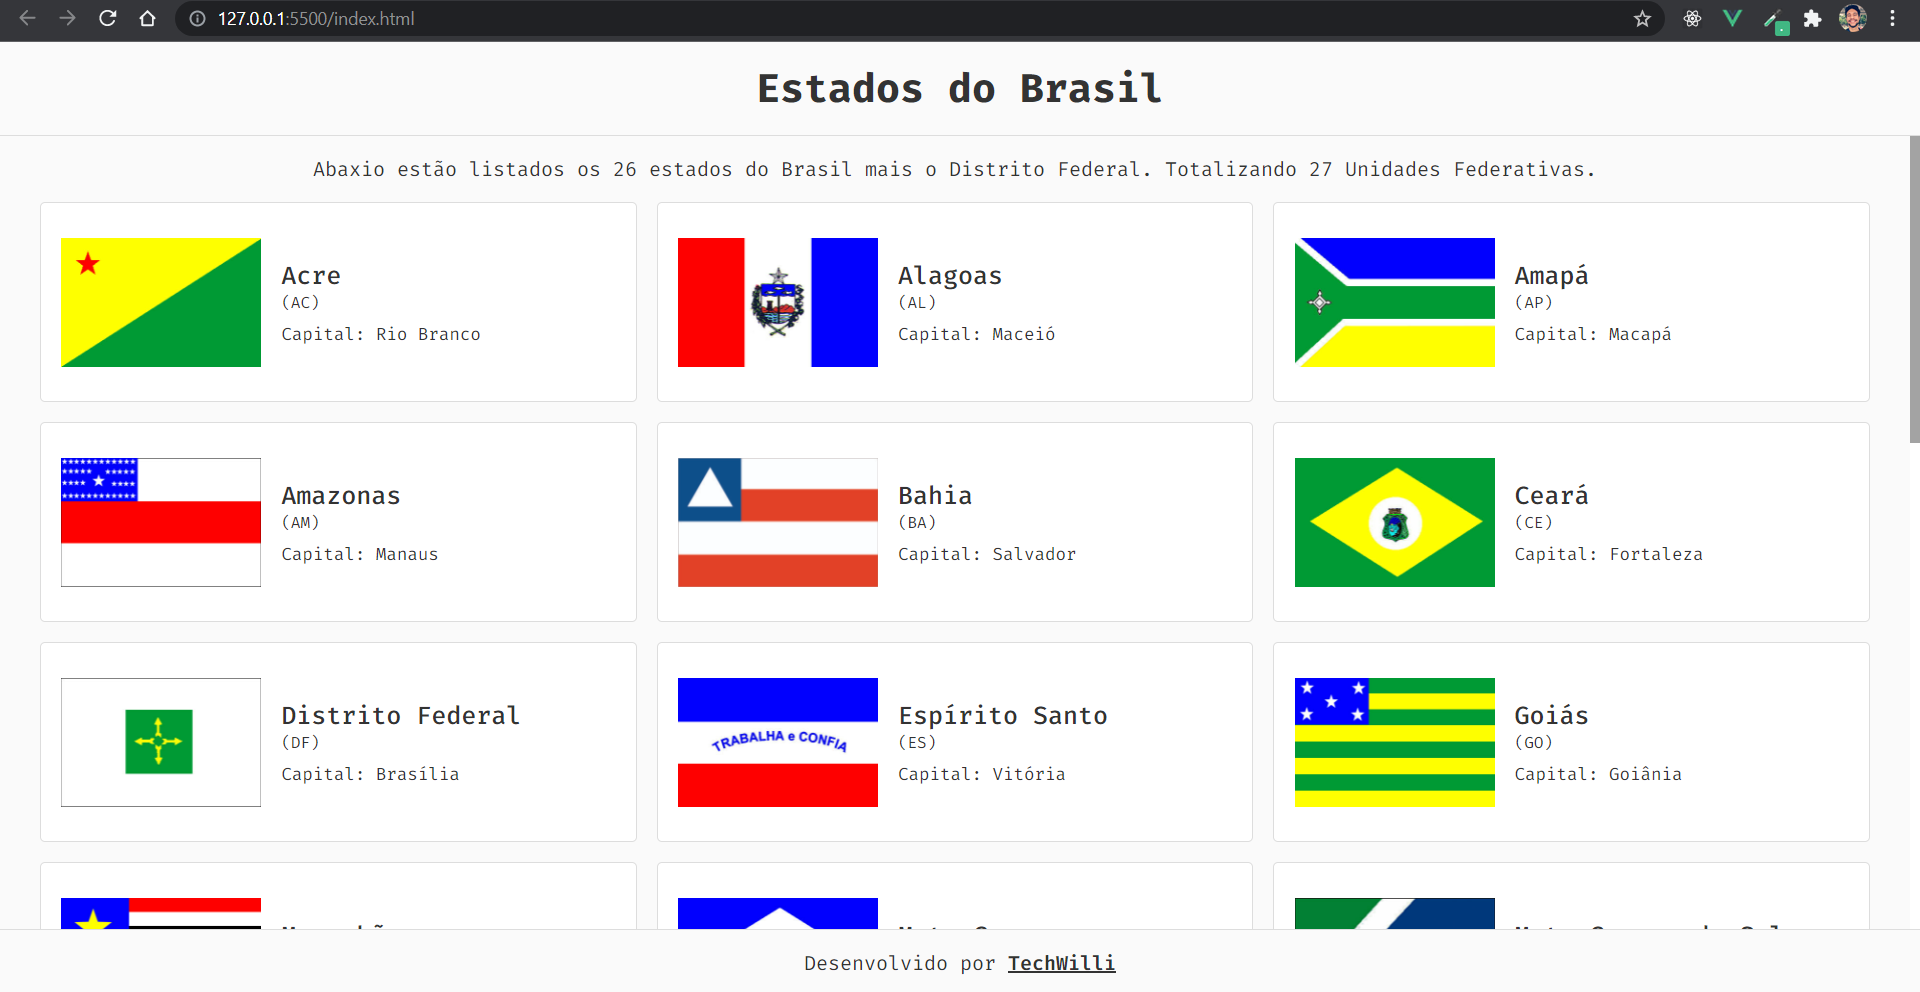
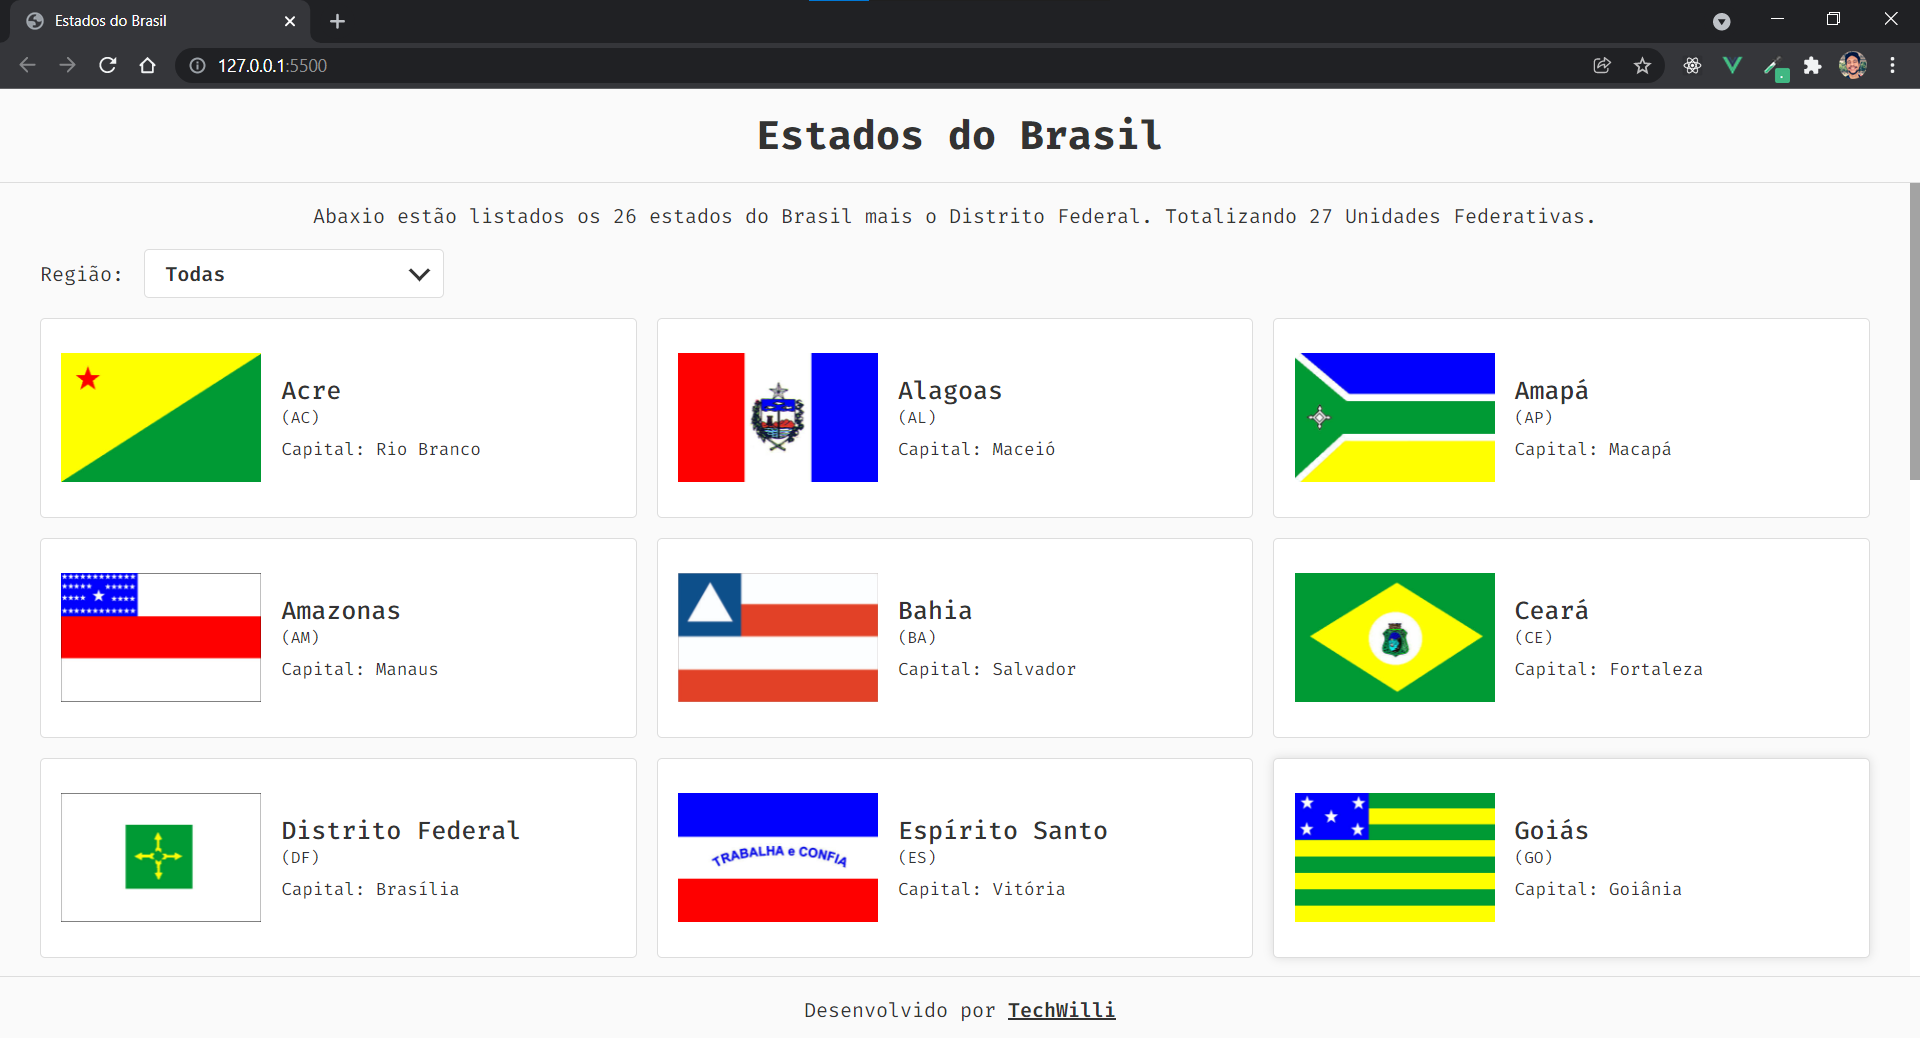
Adiciona filtro de estados através de lista de seleção por região

diff --git a/index.html b/index.html
@@ -17,24 +17,36 @@
       <h1>Estados do Brasil</h1>
     </header>
     <main>
-      <p class="explanation">Abaxio estão listados os 26 estados do Brasil mais o Distrito Federal. Totalizando {{brazilianStates.length}} Unidades Federativas.</p>
+      <p class="explanation">Abaxio estão listados os 26 estados do Brasil mais o Distrito Federal. Totalizando {{ amountOfStates }} Unidades Federativas.</p>
+      <div class="filter-container">
+        <span>Região:</span>
+        <div class="select-wrapper" v-on:click="openPicklist">
+          <span class="selected-value" v-bind:data-value="currentFilterSelection.value">{{ currentFilterSelection.label }}</span>
+          <div class="arrow-wrapper">
+            <div class="arrow-down"></div>
+          </div>
+          <ul class="selection-list hide-list">
+            <li class="selection-option" v-on:click="handleRegionFilter" v-for="({ value, label }, index) of regionsPicklist" v-bind:key="'select-' + index" v-bind:data-value="value" v-bind:data-label="label">{{ label }}</li>
+          </ul>
+        </div>
+      </div>
       <ul class="states-list">
-        <li v-for="({ nome, sigla, capital, imageFlagName }, index) of brazilianStates" v-bind:key="'state -' + index">
+        <li v-for="({ nome, sigla, capital, imageFlagName }, index) of filteredStates" v-bind:key="'state-' + index">
           <div class="card">
             <div class="image-flag-container">
               <img v-bind:src="`./images/bandeiras-estados-do-brasil/${imageFlagName}`" v-bind:alt="`bandeira do ${nome}`">
             </div>
             <div>
-              <span class="state-name">{{nome}}</span>
-              <p class="state-sigla">({{sigla}})</p>
-              <p class="state-capital">Capital: {{capital}}</p>
+              <span class="state-name">{{ nome }}</span>
+              <p class="state-sigla">({{ sigla }})</p>
+              <p class="state-capital">Capital: {{ capital }}</p>
             </div>
           </div>
         </li>
       </ul>
     </main>
     <footer>
-      <p>Desenvolvido por <a v-bind:href="developer.github" target="_blank">{{developer.name}}</a></p>
+      <p>Desenvolvido por <a v-bind:href="developer.github" target="_blank">{{ developer.name }}</a></p>
     </footer>
   </div>
 
@@ -43,42 +55,82 @@
       el: "#app",
       data: {
         brazilianStates: [
-          { nome: 'Acre', sigla: 'AC', capital: 'Rio Branco', imageFlagName: 'Acre.jpg' },
-          { nome: 'Alagoas', sigla: 'AL', capital: 'Maceió', imageFlagName: 'Alagoas.jpg' },
-          { nome: 'Amapá', sigla: 'AP', capital: 'Macapá', imageFlagName: 'Amapa.jpg' },
-          { nome: 'Amazonas', sigla: 'AM', capital: 'Manaus', imageFlagName: 'Amazonas.jpg' },
-          { nome: 'Bahia', sigla: 'BA', capital: 'Salvador', imageFlagName: 'Bahia.jpg' },
-          { nome: 'Ceará', sigla: 'CE', capital: 'Fortaleza', imageFlagName: 'Ceara.jpg' },
-          { nome: 'Distrito Federal', sigla: 'DF', capital: 'Brasília', imageFlagName: 'Brasilia.jpg' },
-          { nome: 'Espírito Santo', sigla: 'ES', capital: 'Vitória', imageFlagName: 'Espiritosanto.jpg' },
-          { nome: 'Goiás', sigla: 'GO', capital: 'Goiânia', imageFlagName: 'Goias.jpg' },
-          { nome: 'Maranhão', sigla: 'MA', capital: 'São Luís', imageFlagName: 'Maranhao.jpg' },
-          { nome: 'Mato Grosso', sigla: 'MT', capital: 'Cuiabá', imageFlagName: 'Matogrosso.jpg' },
-          { nome: 'Mato Grosso do Sul', sigla: 'MS', capital: 'Campo Grande', imageFlagName: 'Matogrossodosul.jpg' },
-          { nome: 'Minas Gerais', sigla: 'MG', capital: 'Belo Horizonte', imageFlagName: 'Minasgerais.jpg' },
-          { nome: 'Pará', sigla: 'PA', capital: 'Belém', imageFlagName: 'Para.jpg' },
-          { nome: 'Paraíba', sigla: 'PB', capital: 'João Pessoa', imageFlagName: 'Paraiba.jpg' },
-          { nome: 'Paraná', sigla: 'PR', capital: 'Curitiba', imageFlagName: 'parana.jpg' },
-          { nome: 'Pernambuco', sigla: 'PE', capital: 'Recife', imageFlagName: 'Pernambuco.jpg' },
-          { nome: 'Piauí', sigla: 'PI', capital: 'Teresina', imageFlagName: 'Piaui.jpg' },
-          { nome: 'Rio de Janeiro', sigla: 'RJ', capital: 'Rio de Janeiro', imageFlagName: 'Riodejaneiro.jpg' },
-          { nome: 'Rio Grande do Norte', sigla: 'RN', capital: 'Natal', imageFlagName: 'Riograndedonorte.jpg' },
-          { nome: 'Rio Grande do Sul', sigla: 'RS', capital: 'Porto Alegre', imageFlagName: 'Riograndedosul.jpg' },
-          { nome: 'Rondônia', sigla: 'RO', capital: 'Porto Velho', imageFlagName: 'Rondonia.jpg' },
-          { nome: 'Roraima', sigla: 'RR', capital: 'Boa Vista', imageFlagName: 'Roraima.jpg' },
-          { nome: 'Santa Catarina', sigla: 'SC', capital: 'Florianópolis', imageFlagName: 'Santacatarina.jpg' },
-          { nome: 'São Paulo', sigla: 'SP', capital: 'São Paulo', imageFlagName: 'Saopaulo.jpg' },
-          { nome: 'Sergipe', sigla: 'SE', capital: 'Aracajú', imageFlagName: 'Sergipe.jpg' },
-          { nome: 'Tocantins', sigla: 'TO', capital: 'Palmas', imageFlagName: 'Tocantins.jpg' },
+          { nome: 'Acre', sigla: 'AC', capital: 'Rio Branco', regiao: 'norte', imageFlagName: 'Acre.jpg' },
+          { nome: 'Alagoas', sigla: 'AL', capital: 'Maceió', regiao: 'nordeste', imageFlagName: 'Alagoas.jpg' },
+          { nome: 'Amapá', sigla: 'AP', capital: 'Macapá', regiao: 'norte', imageFlagName: 'Amapa.jpg' },
+          { nome: 'Amazonas', sigla: 'AM', capital: 'Manaus', regiao: 'norte', imageFlagName: 'Amazonas.jpg' },
+          { nome: 'Bahia', sigla: 'BA', capital: 'Salvador', regiao: 'nordeste', imageFlagName: 'Bahia.jpg' },
+          { nome: 'Ceará', sigla: 'CE', capital: 'Fortaleza', regiao: 'nordeste', imageFlagName: 'Ceara.jpg' },
+          { nome: 'Distrito Federal', sigla: 'DF', capital: 'Brasília', regiao: 'centroOeste', imageFlagName: 'Brasilia.jpg' },
+          { nome: 'Espírito Santo', sigla: 'ES', capital: 'Vitória', regiao: 'sudeste', imageFlagName: 'Espiritosanto.jpg' },
+          { nome: 'Goiás', sigla: 'GO', capital: 'Goiânia', regiao: 'centroOeste', imageFlagName: 'Goias.jpg' },
+          { nome: 'Maranhão', sigla: 'MA', capital: 'São Luís', regiao: 'nordeste', imageFlagName: 'Maranhao.jpg' },
+          { nome: 'Mato Grosso', sigla: 'MT', capital: 'Cuiabá', regiao: 'centroOeste', imageFlagName: 'Matogrosso.jpg' },
+          { nome: 'Mato Grosso do Sul', sigla: 'MS', capital: 'Campo Grande', regiao: 'centroOeste', imageFlagName: 'Matogrossodosul.jpg' },
+          { nome: 'Minas Gerais', sigla: 'MG', capital: 'Belo Horizonte', regiao: 'sudeste', imageFlagName: 'Minasgerais.jpg' },
+          { nome: 'Pará', sigla: 'PA', capital: 'Belém', regiao: 'norte', imageFlagName: 'Para.jpg' },
+          { nome: 'Paraíba', sigla: 'PB', capital: 'João Pessoa', regiao: 'nordeste', imageFlagName: 'Paraiba.jpg' },
+          { nome: 'Paraná', sigla: 'PR', capital: 'Curitiba', regiao: 'sul', imageFlagName: 'parana.jpg' },
+          { nome: 'Pernambuco', sigla: 'PE', capital: 'Recife', regiao: 'nordeste', imageFlagName: 'Pernambuco.jpg' },
+          { nome: 'Piauí', sigla: 'PI', capital: 'Teresina', regiao: 'nordeste', imageFlagName: 'Piaui.jpg' },
+          { nome: 'Rio de Janeiro', sigla: 'RJ', capital: 'Rio de Janeiro', regiao: 'sudeste', imageFlagName: 'Riodejaneiro.jpg' },
+          { nome: 'Rio Grande do Norte', sigla: 'RN', capital: 'Natal', regiao: 'nordeste', imageFlagName: 'Riograndedonorte.jpg' },
+          { nome: 'Rio Grande do Sul', sigla: 'RS', capital: 'Porto Alegre', regiao: 'sul', imageFlagName: 'Riograndedosul.jpg' },
+          { nome: 'Rondônia', sigla: 'RO', capital: 'Porto Velho', regiao: 'norte', imageFlagName: 'Rondonia.jpg' },
+          { nome: 'Roraima', sigla: 'RR', capital: 'Boa Vista', regiao: 'norte', imageFlagName: 'Roraima.jpg' },
+          { nome: 'Santa Catarina', sigla: 'SC', capital: 'Florianópolis', regiao: 'sul', imageFlagName: 'Santacatarina.jpg' },
+          { nome: 'São Paulo', sigla: 'SP', capital: 'São Paulo', regiao: 'sudeste', imageFlagName: 'Saopaulo.jpg' },
+          { nome: 'Sergipe', sigla: 'SE', capital: 'Aracajú', regiao: 'nordeste', imageFlagName: 'Sergipe.jpg' },
+          { nome: 'Tocantins', sigla: 'TO', capital: 'Palmas', regiao: 'norte', imageFlagName: 'Tocantins.jpg' },
         ],
+        filteredStates: [],
         developer: {
           name: 'TechWilli',
           github: 'https://github.com/TechWilli'
-        }
+        },
+        regionsPicklist: [
+          { value: 'todas', label: 'Todas' },
+          { value: 'norte', label: 'Norte' },
+          { value: 'nordeste', label: 'Nordeste' },
+          { value: 'sul', label: 'Sul' },
+          { value: 'sudeste', label: 'Sudeste' },
+          { value: 'centroOeste', label: 'Centro-Oeste' }
+        ],
+        currentFilterSelection: { value: 'todas', label: 'Todas' }
       },
       methods: {
+        openPicklist(event) {
+          const arrowWapper = document.querySelector('.arrow-wrapper')
+          const selectionList = document.querySelector('.selection-list')
 
+          arrowWapper.classList.toggle('arrow-up')
+          selectionList.classList.toggle('hide-list')
+        },
+        handleRegionFilter(event) {
+          this.currentFilterSelection = { ...event.target.dataset }
+        }
       },
+      computed: {
+        amountOfStates() {
+          return this.brazilianStates.length
+        },
+      },
+      watch: {
+        // uma forma de usar o watch, observando o currentFilterSelection para cada vez que uma nova região for atribuída, filtrar o brazilianStates
+        currentFilterSelection(currentValue) {
+          // console.log('currentValue.value', currentValue.value)
+
+          if (!(currentValue.value === 'todas')) {
+            this.filteredStates = this.brazilianStates.filter(state => state.regiao === currentValue.value)
+          } else {
+            this.filteredStates = this.brazilianStates
+          }
+        }
+      },
+      mounted() {
+        // quando o component for montado na tela, atribui o valor do filtro para a listagem completa de estados
+        this.filteredStates = this.brazilianStates
+      }
     })
 
     console.log('Vue vm', vm)

diff --git a/style/style.css b/style/style.css
@@ -148,3 +148,88 @@ footer {
 footer a {
   font-weight: 600;
 }
+
+.filter-container {
+  margin-bottom: 1rem;
+  display: flex;
+  align-items: center;
+}
+
+.select-wrapper {
+  position: relative;
+  border: 1px solid var(--border-color);
+  max-width: 15rem;
+  width: 100%;
+  padding: .5rem 1rem;
+  cursor: pointer;
+  border-radius: .25rem;
+  background-color: #ffffff;
+  transition: 200ms;
+  margin-left: 1rem;
+}
+
+.select-wrapper:hover {
+  box-shadow: 0 0 0 2px var(--green);
+}
+
+.arrow-wrapper {
+  height: 100%;
+  padding-top: 10px;
+  position: absolute;
+  right: 13px;
+  top: 0;
+  z-index: 0;
+  transition: transform 150ms ease-in;
+}
+
+.arrow-down {
+  width: .75rem;
+  height: .75rem;
+  border: 3px solid var(--text-color);
+  border-top: none;
+  border-left: none;
+  transform: rotate(45deg);
+}
+
+.arrow-up {
+  transform: rotate(180deg);
+  transform-origin: center;
+}
+
+.selected-value {
+  font-weight: 600;
+}
+
+.selection-list {
+  position: absolute;
+  background-color: #ffffff;
+  border: 1px solid var(--border-color);
+  border-radius: 0 0 .25rem .25rem;
+  width: 100%;
+  left: 0;
+  top: 40px;
+  transform: translateY(-50px);
+  opacity: 0;
+  animation: showList 300ms forwards;
+}
+
+@keyframes showList {
+  to {
+    transform: initial;
+    opacity: inherit;
+  }
+}
+
+.selection-option {
+  padding: .5rem 1rem;
+}
+
+.selection-option:hover {
+  background-color: var(--green);
+  color: #ffffff;
+  font-weight: 600;
+}
+
+.hide-list {
+  display: none;
+}
